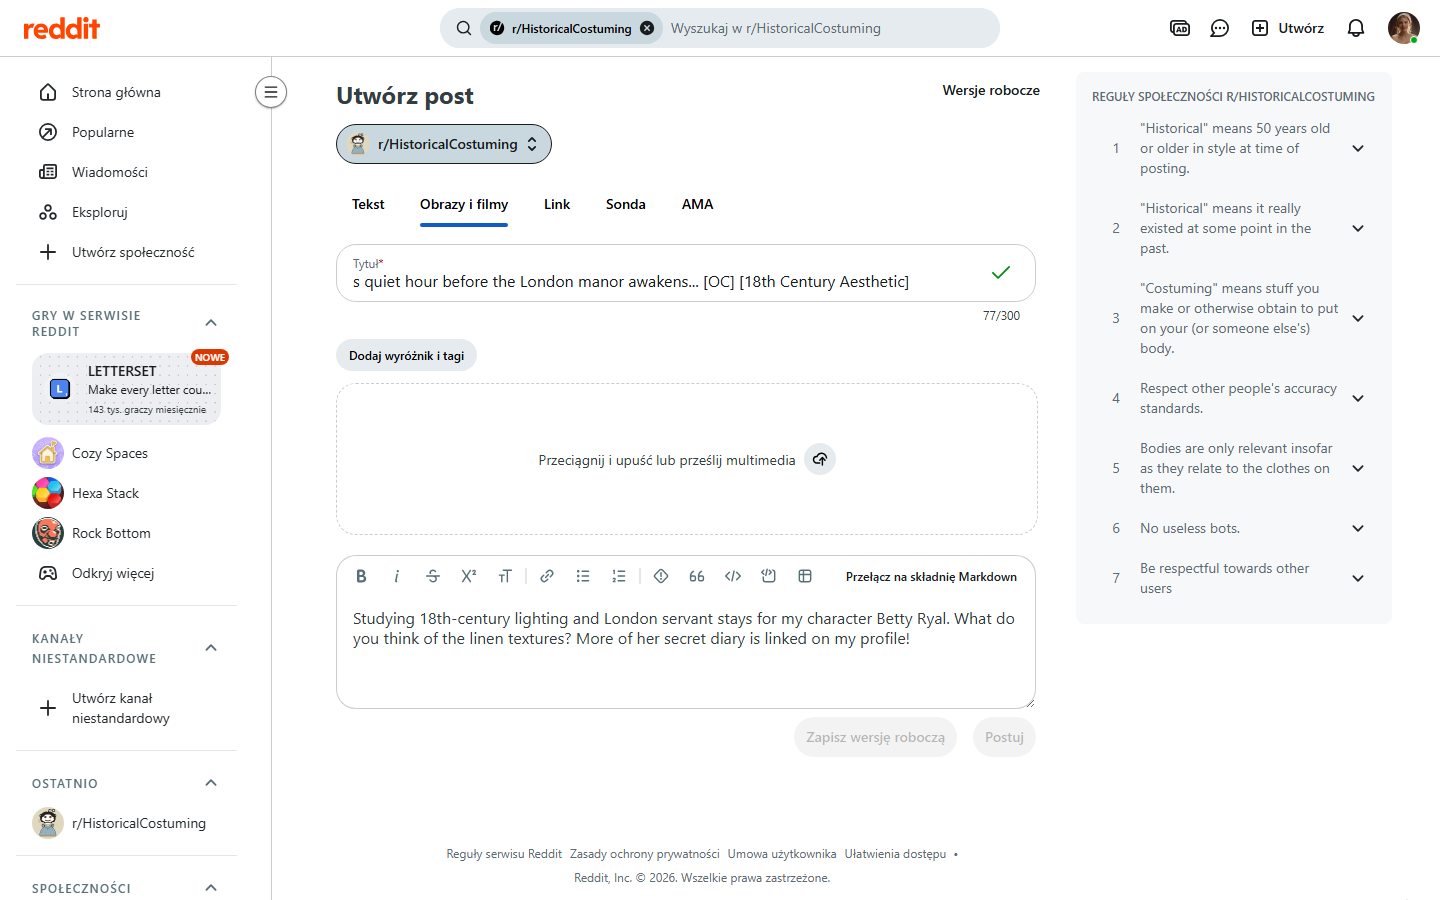
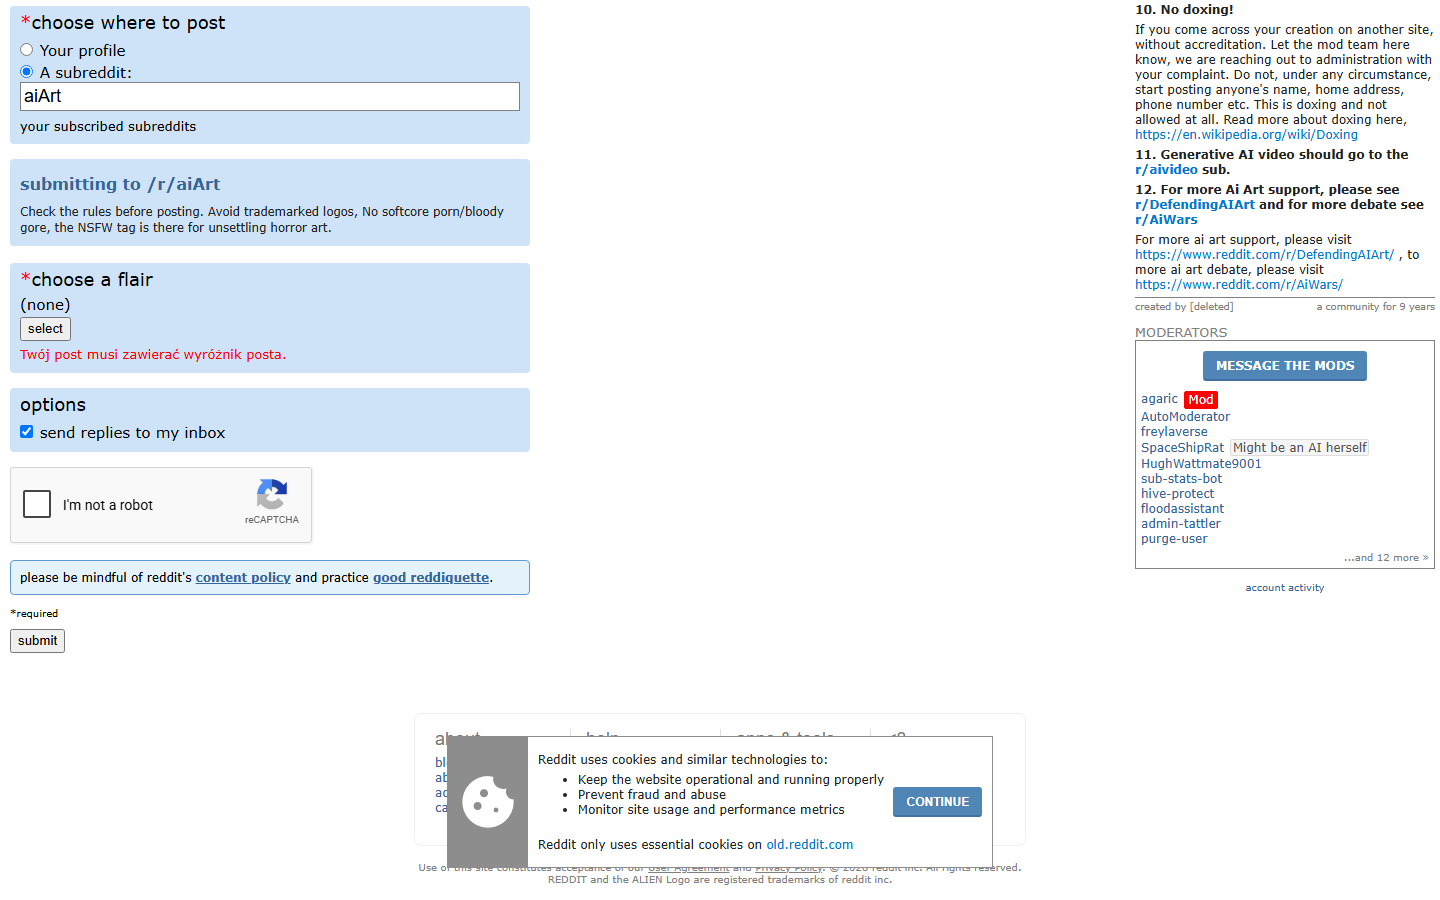
fix(reddit): enforce u_BettyRyal profile drop to prevent subreddit bans and failures

diff --git a/src/services/notification_service.js b/src/services/notification_service.js
@@ -75,11 +75,12 @@ class NotificationService {
 
         // If NO platform succeeded, send an honest ERROR ALERT instead of a fake success!
         if (platforms.length === 0) {
-            console.warn(`[NotificationService] ⚠ Zero platforms succeeded for theme ${theme}. Sending Failure Alert instead.`);
+            console.warn(`[NotificationService] 🚨 Zero platforms succeeded for theme ${theme}. Sending Failure Alert instead.`);
             return this.sendPublicationFailureAlert({ theme, item, errors, remainingCount });
         }
 
-        const subject = `👑 [InfluMaker] Post Published: ${theme} (${platforms.join(', ')}) - Betty Ryal`;
+        const now = new Date();
+        const subject = `📧 [InfluMaker] Post Published: ${theme} (${platforms.join(', ')}) - Betty Ryal`;
         const imageName = item?.imagePath ? path.basename(item.imagePath) : 'Period Drama Asset';
         const formattedDate = now.toLocaleString('pl-PL', { timeZone: 'Europe/Warsaw' });
 

diff --git a/src/services/reddit_service.js b/src/services/reddit_service.js
@@ -6,7 +6,7 @@ const storyParser = require('./story_parser');
 class RedditService {
     constructor() {
         this.sessionPath = path.join(__dirname, '../../config/reddit_session.json');
-        this.defaultSubreddit = 'aiArt';
+        this.defaultSubreddit = 'u_BettyRyal';
     }
 
     /**
@@ -30,9 +30,7 @@ class RedditService {
     parseRedditStory(storyPath) {
         if (storyPath && fs.existsSync(storyPath)) {
             const parsed = storyParser.parse(storyPath);
-            let subreddit = this.defaultSubreddit;
-            const subMatch = parsed.reddit.subreddits.match(/r\/([A-Za-z0-9_]+)/);
-            if (subMatch) subreddit = subMatch[1];
+            let subreddit = this.defaultSubreddit; // ALWAYS use profile drop u_BettyRyal to avoid bans
 
             return {
                 title: parsed.reddit.title,
